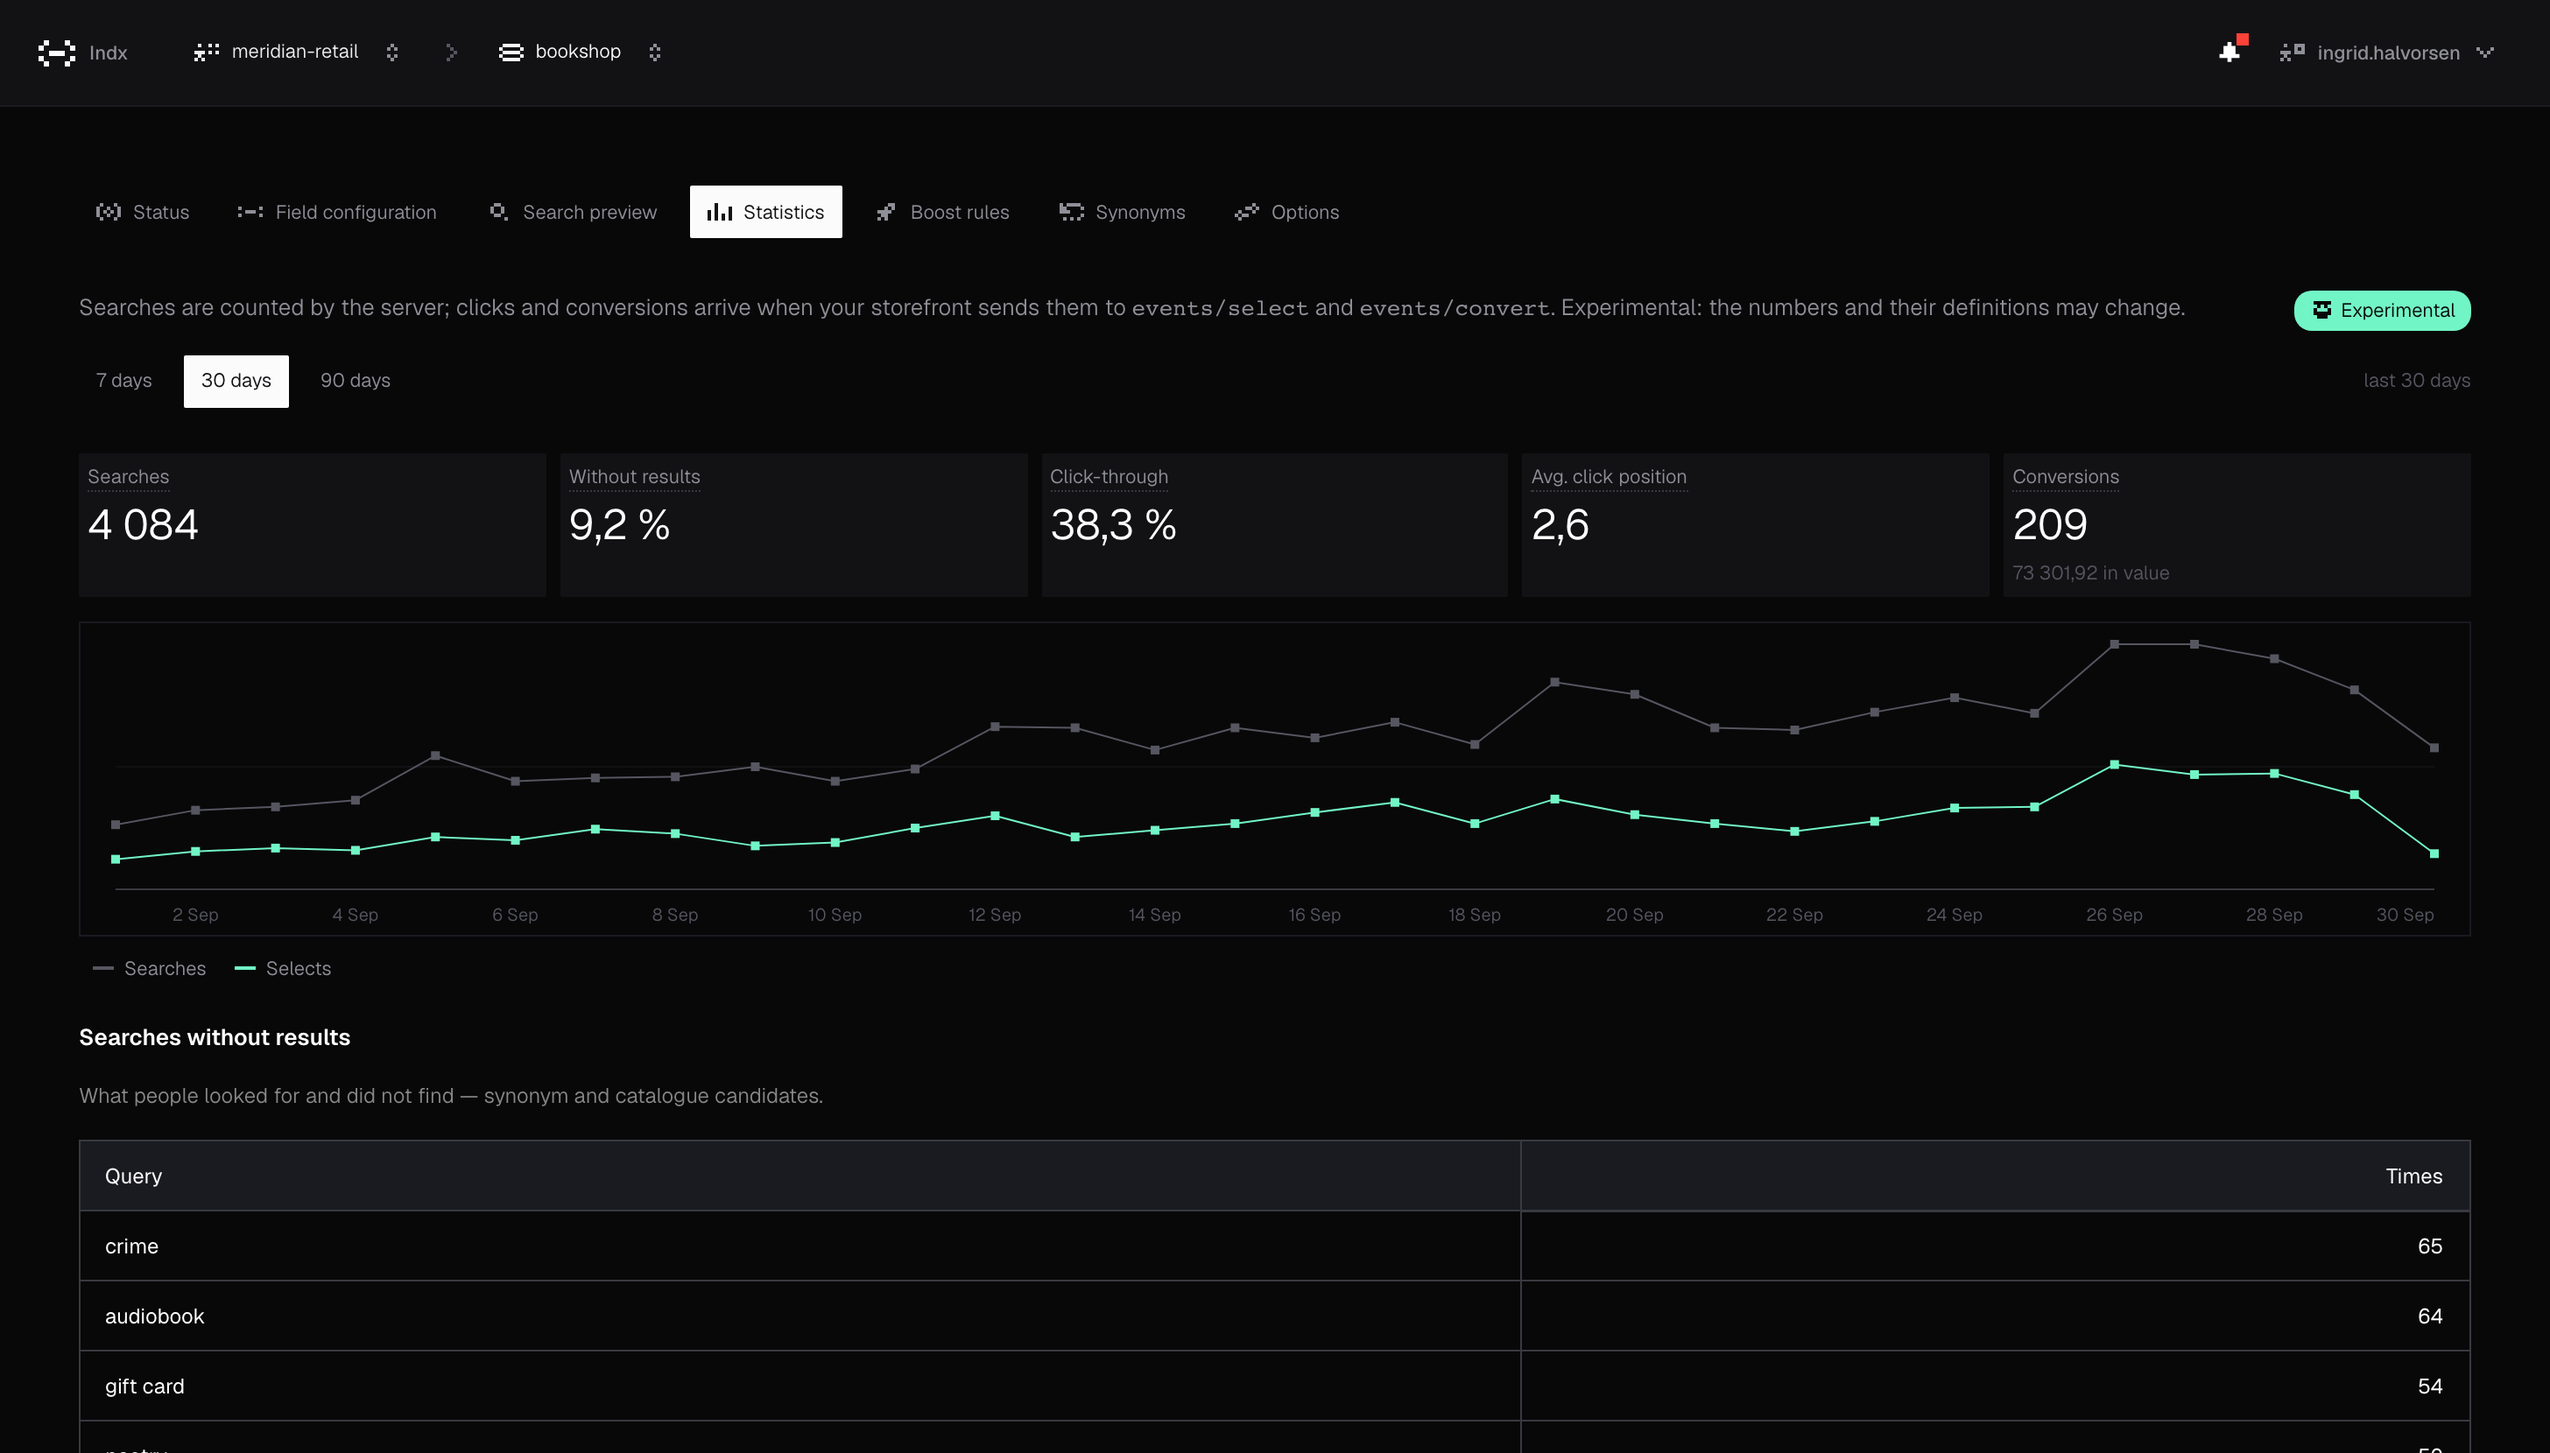
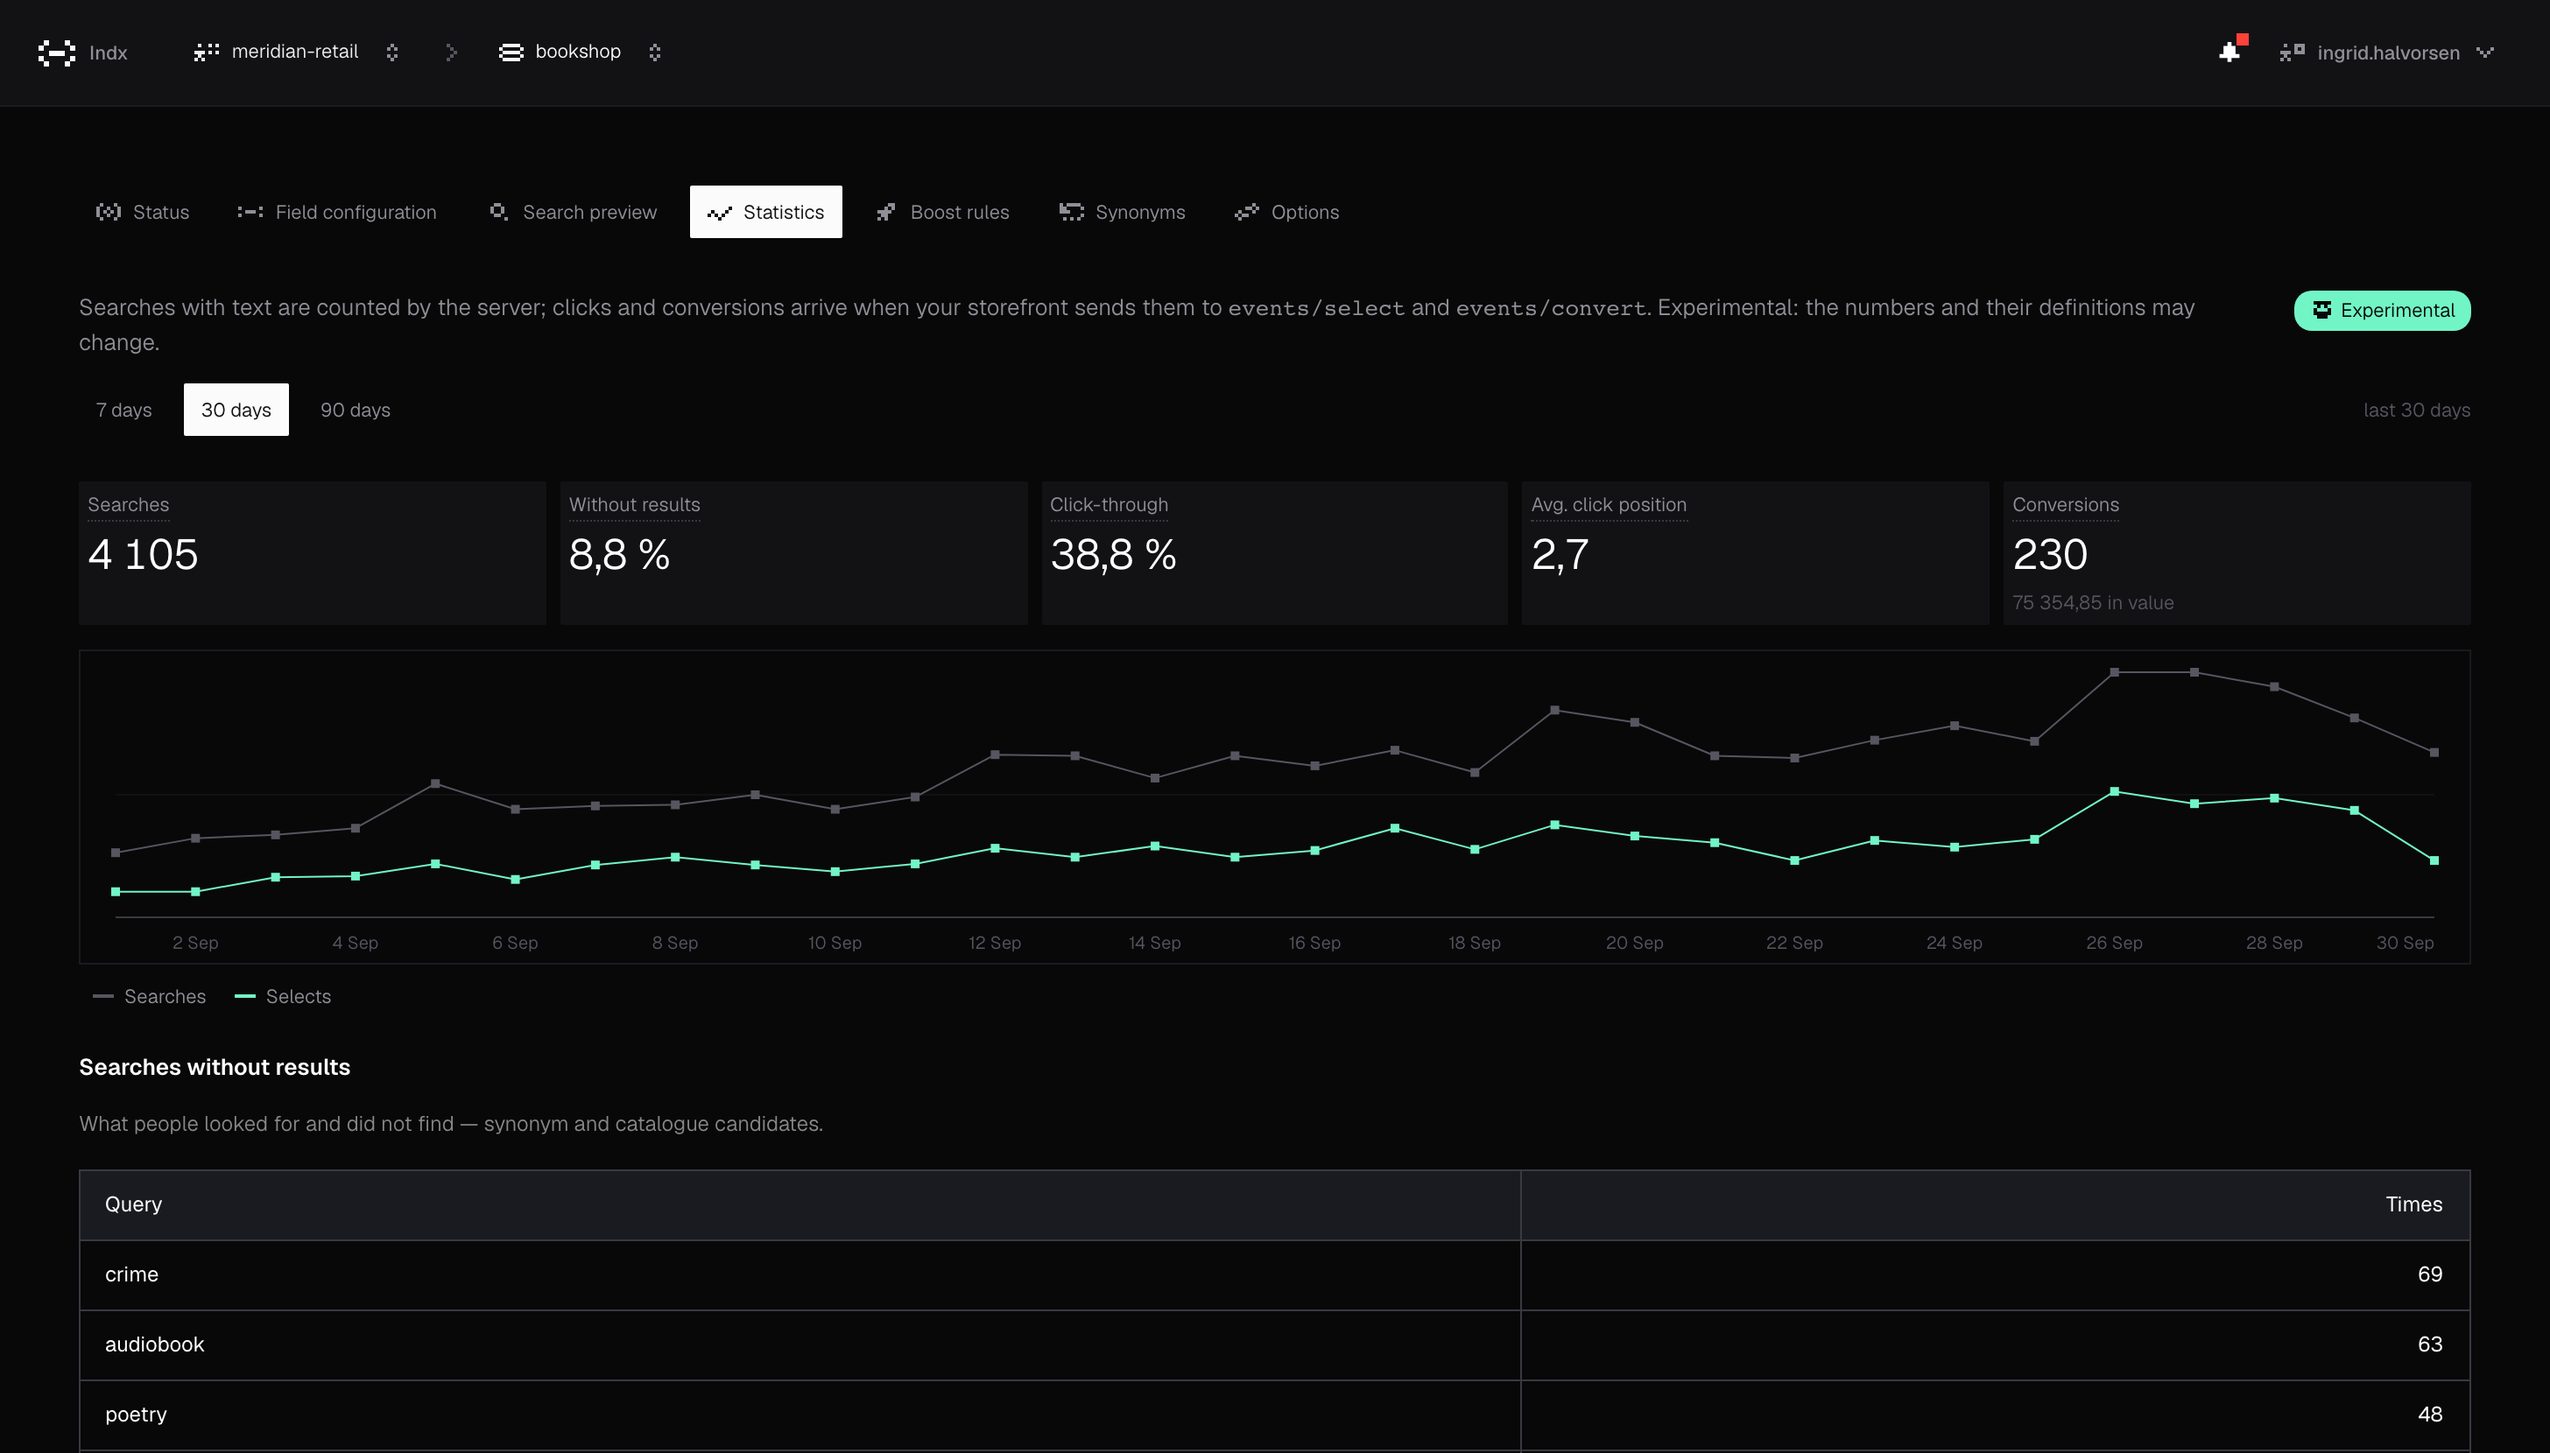
IndxServer: screenshots retaken with the counting rules and Browsing, and the README says how to feed it
The console shots come from the presentation fixture on the published build: a month of typed
searches collapsed to what visitors settled on, and Browsing filled. A second statistics shot
shows Top queries and Browsing, below the first screen. admin-monitor.png is kept: retaken
after a restart its stream is warm-up. The README's statistics section gains Browsing, its
switch, the session, and intrface's select().

diff --git a/README.md b/README.md
@@ -218,14 +218,23 @@ and the list of searches that found nothing](docs/images/console-statistics.png)
   synonym and catalogue candidates.
 - **Top queries** gives each query its click-through and the average position of the result
   people chose. A low position means the right document was found and ranked too low.
+- **Browsing** lists what people narrowed the catalogue by, filter value by filter value, with or
+  without typing. On a dataset of people, where a filter can hold a name, switch it off on the
+  **Options** tab.
 - **Top documents** lists what gets chosen and what sells, with the order value.
+
+![Further down the statistics tab: top queries with their click-through and average click
+position, and the Browsing list of filter values and how often each was used](docs/images/console-statistics-browsing.png)
 
 Every dataset card on the team page also draws the last two weeks of searches, so a dataset
 nobody uses any more is visible at a glance.
 
 **Sending clicks and orders:** every search response carries an `Indx-Query-Id` header. Send it
 back with `POST …/events/select` when a result is clicked, and with `POST …/events/convert` for
-an order. A Search key, the one your storefront already has, is enough.
+an order. A Search key, the one your storefront already has, is enough. Send a `session` with
+each search too, any random id made per page load, and a visitor typing "oslo" counts as one
+search instead of four. [@indxsearch/intrface](https://github.com/indxSearch/indx-intrface)
+does both for you: it sends the session, and a result's `select()` reports the click.
 
 **Over the API:** `GET …/statistics/overview`, `timeseries`, `queries` and `documents`, with a
 Read key. Statistics are stored in their own `stats.db` next to `indx.db`. Raw events are kept

diff --git a/docs/images/README.md b/docs/images/README.md
@@ -12,6 +12,7 @@ the repository root, or `../images/<name>.png` from inside `docs/release-notes/`
 | `console-boost-rules.png` | Boost rules on `bookshop`: four rules, one scheduled, one switched off |
 | `console-synonyms.png` | The synonym list on `bookshop`: two-way entries and one one-way |
 | `console-statistics.png` | The Statistics tab on `bookshop`: a month of searches, clicks and orders, and the searches that found nothing. Seeded by `seed.mjs traffic` and `history` |
+| `console-statistics-browsing.png` | Further down the same tab: Top queries with click-through and position, and Browsing, the filter values people narrowed by |
 | `admin-users.png` | Admin → Users: accounts and platform roles. Not in the root README — six images is already a lot for one page; this one is here for release notes |
 | `admin-teams.png` | Admin → Teams: both teams with their members and team roles |
 | `admin-datasets.png` | Admin → Datasets: every dataset across every team, with keep-alive |
